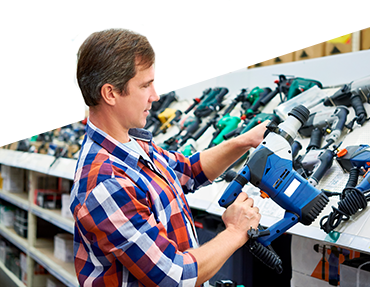
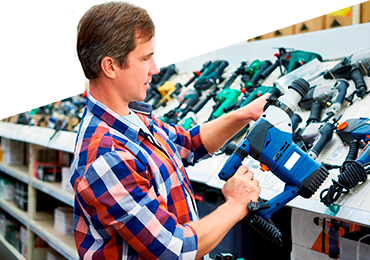
Сверстал желтый блок

diff --git a/src/index.html b/src/index.html
@@ -311,39 +311,39 @@
     </div>
     <!-- /.yellow-block -->
 
-        <div class="choice">
-          <div class="choise__item">
+        <div class="choice choice__block">
+          <div class="choice__item">
             <p class="choice__text">Поможем закупить все материалы
               по оптовым ценам у проверенных поставщиков
             </p>
             <!-- /.choice__text -->
             <div class="choice__image">
-              <img src="./img/yellow-block/yellow-item.png" alt="" class="choice__bg">
+              <img src="./img/yellow-block/bg1.png" alt="" class="choice__bg">
               <img src="./img/yellow-block/man-1.png" alt="" class="choice__man">
             </div>
             <!-- /.choice__image -->
           </div>
           <!-- /.choise__item -->
-          <div class="choise__item">
-            <p class="choice__text">Мы дадим Вам максимальные скидки
+          <div class="choice__item">
+            <p class="choice__text">Мы дадим Вам <span class="choice__bold">максимальные скидки</span>
               у наших партнеров для закупки материалов оптом
             </p>
             <!-- /.choice__text -->
             <div class="choice__image">
-              <img src="./img/yellow-block/yellow-item.png" alt="" class="choice__bg">
+              <img src="./img/yellow-block/bg1.png" alt="" class="choice__bg">
               <img src="./img/yellow-block/man-2.png" alt="" class="choice__man">
             </div>
             <!-- /.choice__image -->
           </div>
           <!-- /.choise__item -->
-          <div class="choise__item">
+          <div class="choice__item">
             <p class="choice__text">Все, что не сможете найти в городе -
-              поможем заказать у проверенных
-              поставщиков
+              поможем заказать <span class="choice__bold">у проверенных
+              поставщиков</span>
             </p>
             <!-- /.choice__text -->
             <div class="choice__image">
-              <img src="./img/yellow-block/yellow-item.png" alt="" class="choice__bg">
+              <img src="./img/yellow-block/bg3.png" alt="" class="choice__bg">
               <img src="./img/yellow-block/man-3.png" alt="" class="choice__man">
             </div>
             <!-- /.choice__image -->

diff --git a/src/css/style.css b/src/css/style.css
@@ -608,4 +608,55 @@ img {
   padding-top: 100px;
   padding-bottom: 100px;
 }
+
+.choice__item {
+  margin-top: 127px;
+  margin-bottom: 143px;
+  margin-right: 30px;
+  max-width: 370px;
+  max-height: 410px;
+  justify-content: space-between;
+  display: flex;
+  flex-direction: column;
+  background: #f7f7f7;
+}
+
+.choice__item:hover .choice__bg {
+  transition: 0.3s;
+  transform: translateY(-15px);
+}
+
+.choice__bg {
+  max-width: 100%;
+  position: absolute;
+  z-index: -1;
+  transform: translateY(5px);
+}
+
+.choice__image {
+  height: 278px;
+  display: flex;
+  max-width: 100%;
+}
+
+.choice__block {
+  display: flex;
+  justify-content: center;
+}
+
+.choice__text {
+  max-width: 300px;
+  text-align: center;
+  margin: auto;
+  margin-top: 27px;
+  font-size: 16px;
+  line-height: 23px;
+  margin-bottom: 36px;
+  color: #333333;
+}
+
+.choice__bold {
+  font-family: 'Museo Sans Bold', sans-serif;
+  font-weight: 700;
+}
 /*# sourceMappingURL=style.css.map */

diff --git a/src/sass/bloсks/_choice.sass b/src/sass/bloсks/_choice.sass
@@ -1,0 +1,37 @@
+.choice
+  &__item
+    margin-top: 127px
+    margin-bottom: 143px
+    margin-right: 30px
+    max-width: 370px
+    max-height: 410px
+    justify-content: space-between
+    display: flex
+    flex-direction: column
+    background: #f7f7f7
+    &:hover .choice__bg
+      transition: 0.3s
+      transform: translateY(-15px)
+  &__bg
+    max-width: 100%
+    position: absolute
+    z-index: -1
+    transform: translateY(5px)
+  &__image
+    height: 278px
+    display: flex
+    max-width: 100%
+  &__block
+    display: flex
+    justify-content: center
+  &__text
+    max-width: 300px
+    text-align: center
+    margin: auto
+    margin-top: 27px
+    font-size: 16px
+    line-height: 23px
+    margin-bottom: 36px
+    color: $text-color
+  &__bold
+    +bold

diff --git a/src/sass/style.sass b/src/sass/style.sass
@@ -9,3 +9,4 @@
 @import 'bloсks/_price'
 @import 'bloсks/_steps'
 @import 'bloсks/_yellow-block'
+@import 'bloсks/_choice'
